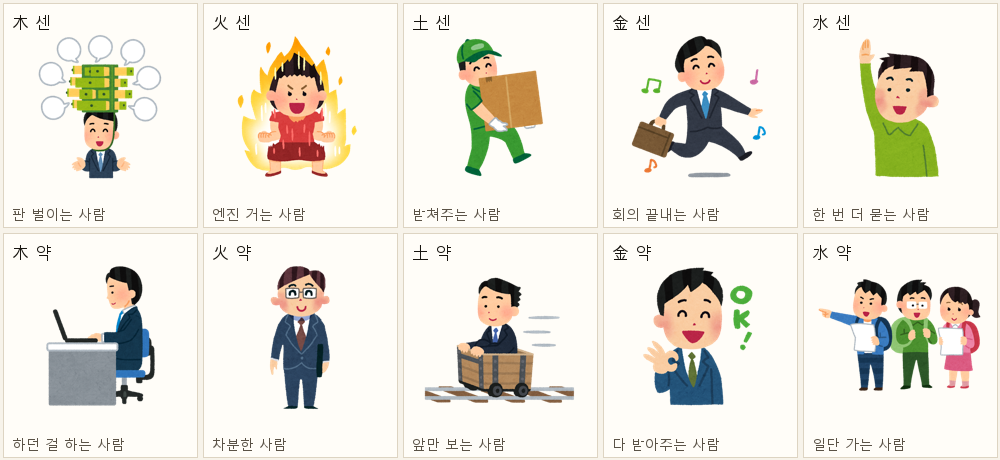
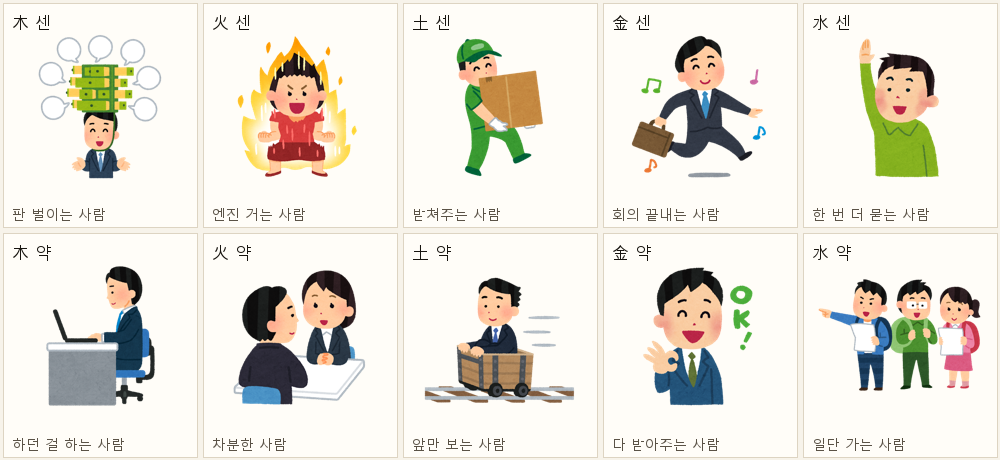
[DESIGN] 차분한 사람을 상담 그림으로 바꾼다 (#59)
책상 너머로 웃으며 이야기를 듣는 사람. 원제가 いろいろな会社での相談（笑顔）다.
듣는 자세라 "급해도 목소리가 안 커지는 타입" 이 동작으로 실린다. 혼자 서 있는
그림은 표정 말고는 말해주는 게 없었다.

같은 그림에 남남 남녀 여남 여여 네 벌이 있어서 응대하는 쪽이 여성인 걸 골랐다.
열 장 중 여성이 火 센 하나뿐이었다.

Changed region(s): [[0.217, 0.5783, 0.372, 0.913]]

diff --git a/src/lib/copy/result.ts b/src/lib/copy/result.ts
@@ -91,7 +91,7 @@ export const illustrationCopy = {
    */
   altByWeak: {
     木: '자리에 앉아 하던 일을 하는 사람',
-    火: '서류를 들고 가볍게 웃으며 선 회사원',
+    火: '책상 너머로 웃으며 이야기를 듣는 사람',
     土: '레일 위 광차를 타고 앞으로 가는 회사원',
     金: 'OK 사인을 내는 회사원',
     水: '팜플렛을 들고 앞을 가리키는 여행자들',
